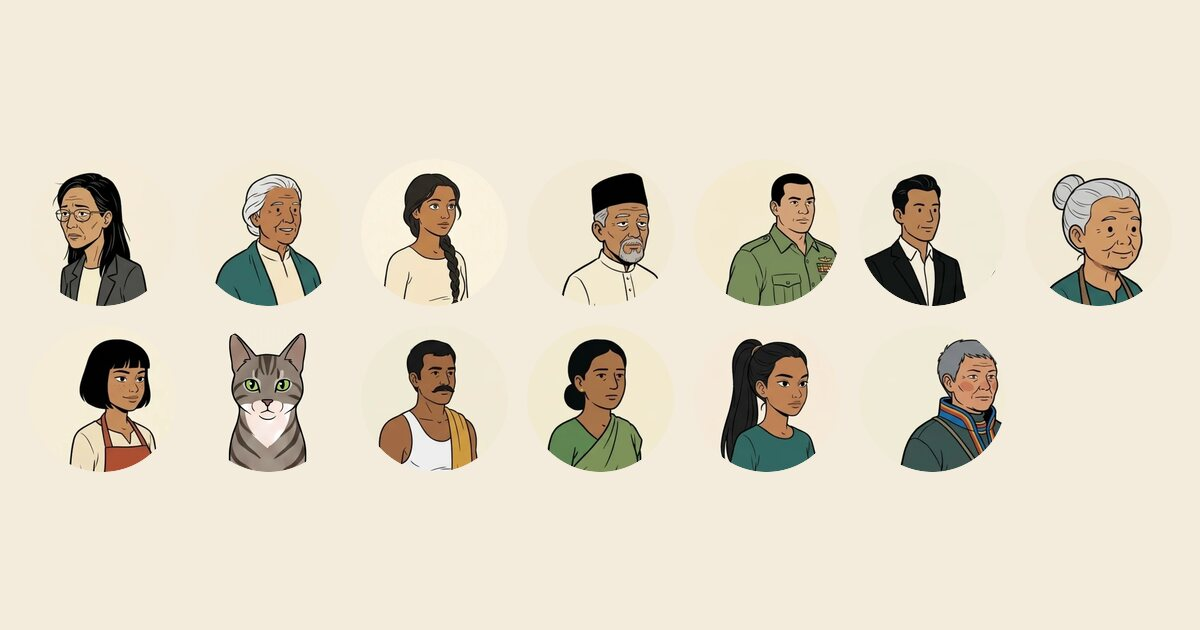
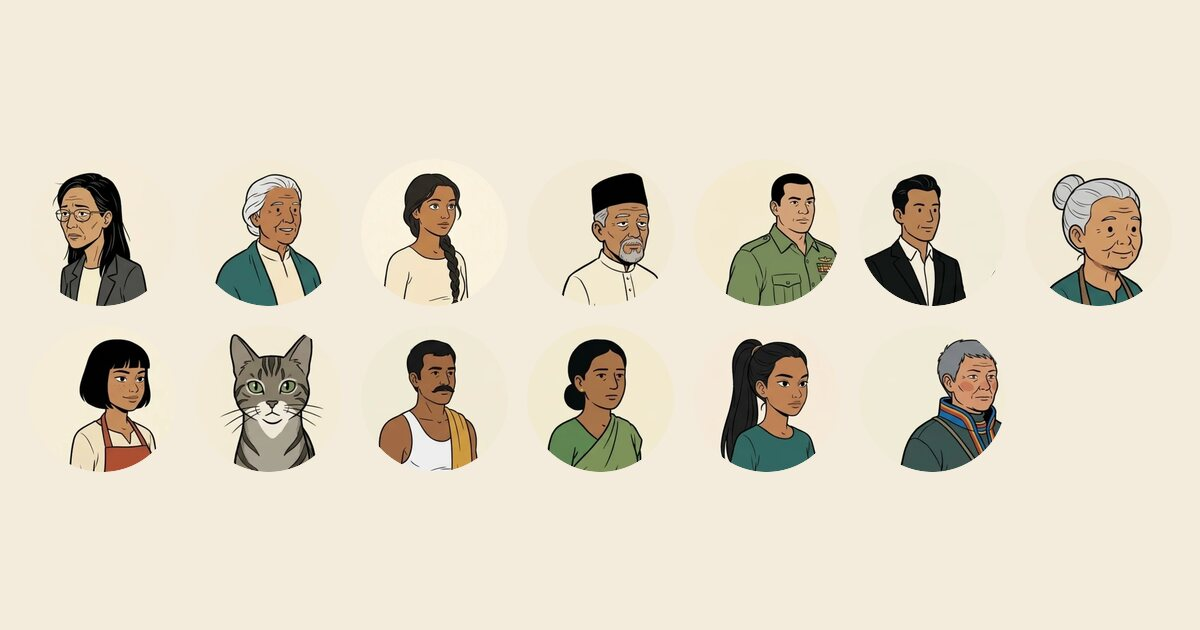
Taro grows up through the get-involved form: kitten, cat, beaing
Each step shows a different Taro from the style profile's three sheets,
cropped by scripts/cast-portraits.sh. The cast page's Taro is now the
comic-style cat too, in place of her flat reference drawing. Also formats
the form's batchUpdate JSON, which the last commit left failing lint.

Plan: 2026-10-30_engagement-form

Changed region(s): [[0.185, 0.5127, 0.2775, 0.754]]

diff --git a/src/routes/get-involved/+page.svelte b/src/routes/get-involved/+page.svelte
@@ -18,12 +18,13 @@
 	let { data } = $props();
 
 	const STEPS = 3;
-	// What Taro says on each step, and after.
+	// Taro grows up as the form goes on: kitten, cat, then beaing (and still the beaing after),
+	// each with her line.
 	const TARO = [
-		'Pick one. Or all.',
-		'Tell us a little about you.',
-		'Last one, promise.',
-		'Thank you!'
+		{ src: '/cast/taro-kitten.webp', says: 'Pick one. Or all.' },
+		{ src: '/cast/taro-cat.webp', says: 'Tell us a little about you.' },
+		{ src: '/cast/taro-beaing.webp', says: 'Last one, promise.' },
+		{ src: '/cast/taro-beaing.webp', says: 'Thank you!' }
 	];
 
 	let step = $state<1 | 2 | 3 | 'done'>(1);
@@ -35,6 +36,7 @@
 
 	const translating = $derived(answers.interests.includes(TRANSLATE));
 	const n = $derived(step === 'done' ? STEPS : step);
+	const taro = $derived(TARO[step === 'done' ? 3 : step - 1]);
 
 	async function show(next: typeof step) {
 		step = next;
@@ -78,6 +80,9 @@
 
 <svelte:head>
 	<title>Get involved · Riverbanks</title>
+	<!-- The later Taros, so each step's picture is there when it's reached. -->
+	<link rel="preload" as="image" href="/cast/taro-cat.webp" />
+	<link rel="preload" as="image" href="/cast/taro-beaing.webp" />
 	<meta
 		name="description"
 		content="Translate, exhibit, teach or collaborate on Riverbanks: tell Seapunk Studios what you'd like to do. It takes about two minutes."
@@ -123,8 +128,8 @@
 				{/if}
 			</div>
 			<figure class="taro" aria-hidden="true">
-				<p class="bubble">{TARO[step === 'done' ? 3 : step - 1]}</p>
-				<img src="/cast/taro.webp" alt="" width="400" height="400" />
+				<p class="bubble">{taro.says}</p>
+				<img src={taro.src} alt="" width="400" height="400" />
 			</figure>
 		</div>
 

diff --git a/plans/2026-10-30_cast-page.plan.md b/plans/2026-10-30_cast-page.plan.md
@@ -37,7 +37,9 @@ issue:
   - The story network's portraits are public in Supabase (`network-portraits/riverbook/<cast
     member id>`), one or more per character, by age. Their URLs are recorded in the
     `story_network` row.
-  - Taro has none there; `art/taro/refs/taro-cat-front.png` is her reference sheet.
+  - Taro has none in the network, but the style profile's cast has her at three ages (kitten,
+    cat, beaing), each a sheet in the same bucket. The cast page uses the cat. (A first version
+    used her flat reference drawing in `art/taro/refs`, which didn't match the others.)
 - **One-liners:** board 6's drafts came from `riverbook.json` before the canon settled. Some are
   stale: Teja's is from Moving House, and "Gross Delish Index" is now Gross Deliciousness Index.
   The new ones are written from the current summaries, for Sam to approve.

diff --git a/plans/2026-10-30_engagement-form.plan.md b/plans/2026-10-30_engagement-form.plan.md
@@ -64,7 +64,9 @@ changing the field IDs):
   tested.
 - **Page `/get-involved`** follows board 7, one step at a time:
   - Steps 1–3, each with its question as the `h1`, a progress line ("1 of 3"), Back and Next.
-  - Taro with a speech bubble changes line per step.
+  - Taro with a speech bubble changes line per step, and grows up as the form goes on (Yan,
+    30 Oct): the kitten, then the cat, then the beaing for step 3 and the thank-you. The three
+    are the style profile's Taro sheets, cropped by `scripts/cast-portraits.sh`.
   - Then a thank-you with Start reading and Meet the cast.
   - Answers survive Back and Forward within the page. Nothing is stored after sending.
   - The voice-note box is left out: voice notes need storage and moderation (roadmap, "Later").
